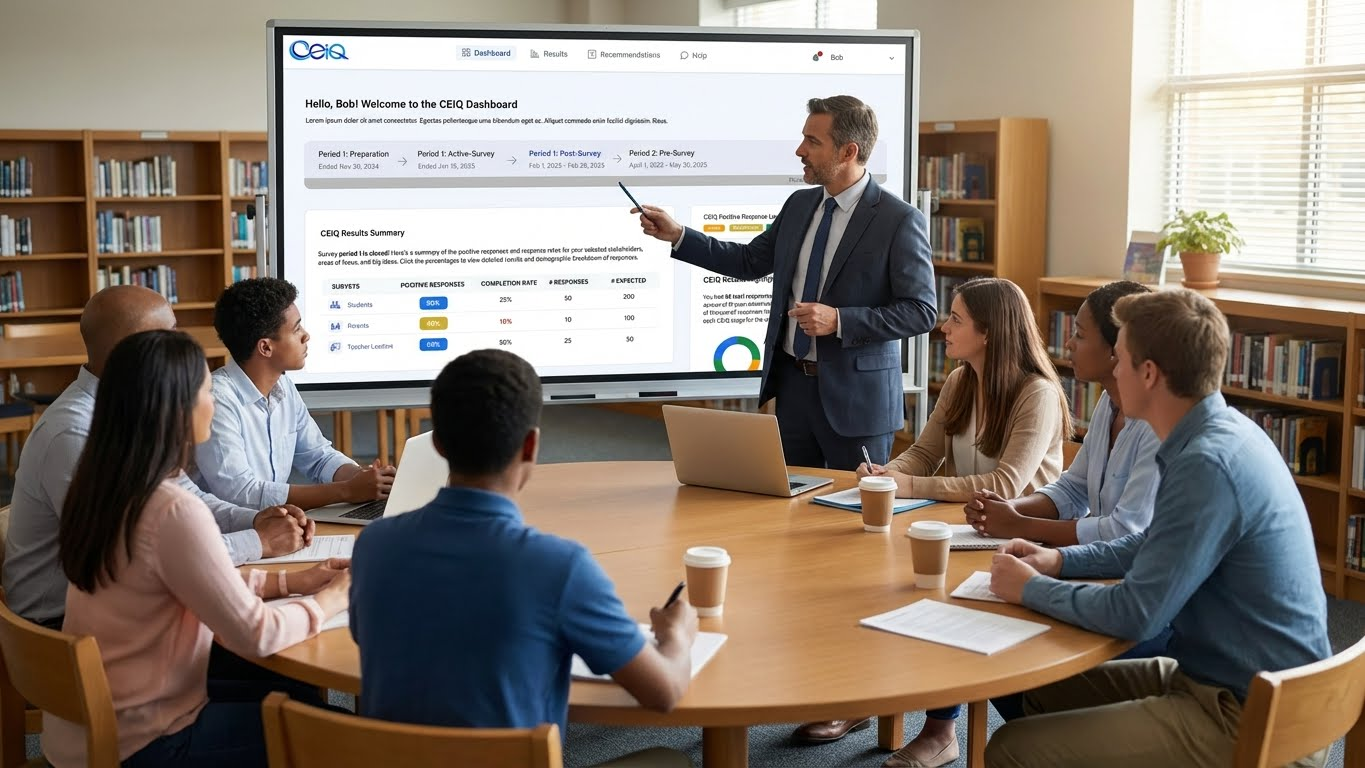
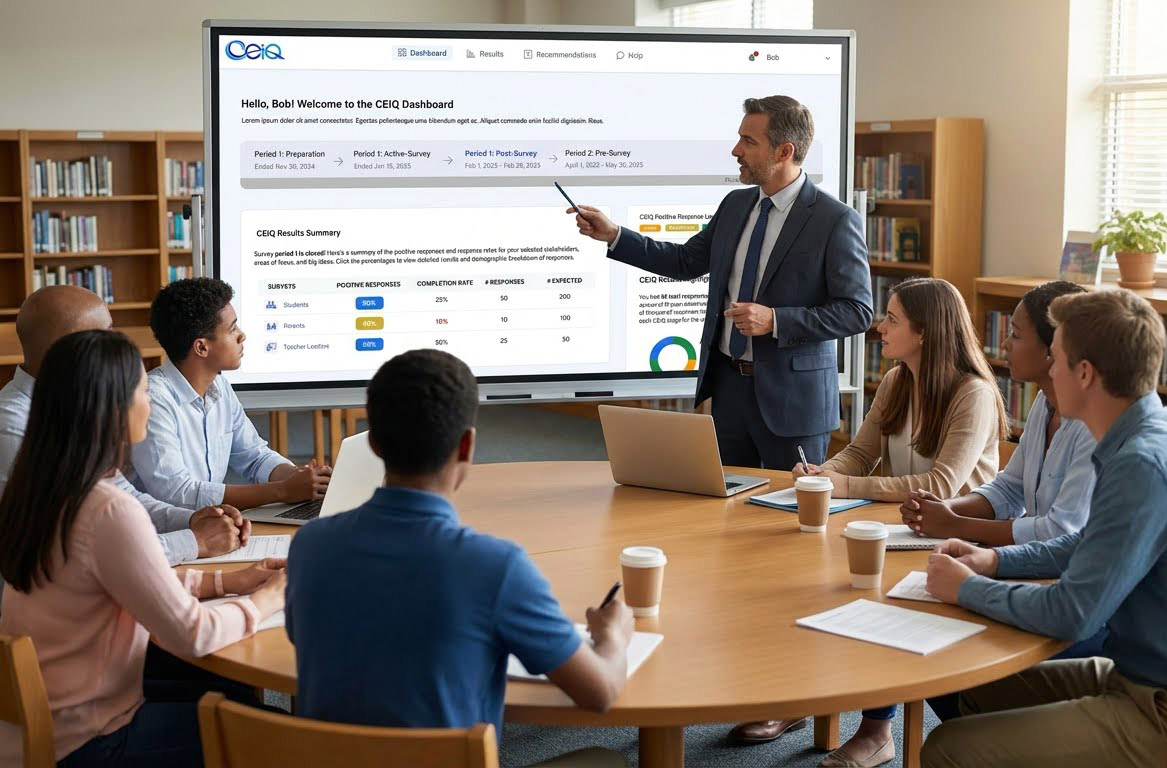
new hero image

diff --git a/resources/views/components/layouts/app.blade.php b/resources/views/components/layouts/app.blade.php
@@ -216,19 +216,6 @@ Provides consistent structure, styling, and navigation across all pages.
             box-shadow: 0 28px 60px -38px rgba(15, 23, 42, 0.55);
             isolation: isolate;
         }
-        .hero-visual::before {
-            content: '';
-            position: absolute;
-            top: -8%;
-            left: -14%;
-            width: 20%;
-            height: 116%;
-            background: linear-gradient(210deg, rgba(37, 99, 235, 0.95), rgba(124, 58, 237, 0.8));
-            transform: skewX(-12deg);
-            opacity: 0.85;
-            z-index: 2;
-            pointer-events: none;
-        }
         .hero-visual::after {
             content: '';
             position: absolute;
